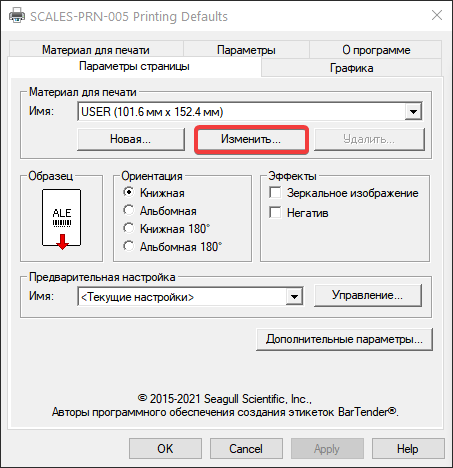
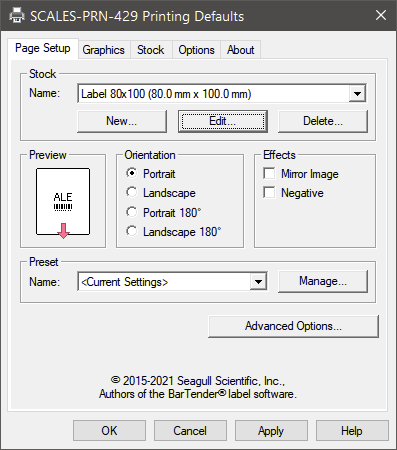
Updated Print settings Windows

Changed region(s): [[0.0, 0.0, 0.9975, 0.7778], [0.0, 0.9333, 1.0, 1.0], [0.0907, 0.8089, 0.8766, 0.9022]]

diff --git a/CHANGELOG.md b/CHANGELOG.md
@@ -6,9 +6,10 @@ and this project adheres to [Semantic Versioning](https://semver.org/spec/v2.0.0
 
 ## [Unreleased]
 
-## [0.1.068] - 2022-07-21
+## [0.1.082] - 2022-07-21
 ### Changed
 - [Print settings → Diagnostic Tools](Print%20settings/Diagnostic%20Tools.md)
+- [Print settings → Windows](Print%20settings/Windows.md)
 
 ## [0.1.063] - 2022-07-07
 ### Added
